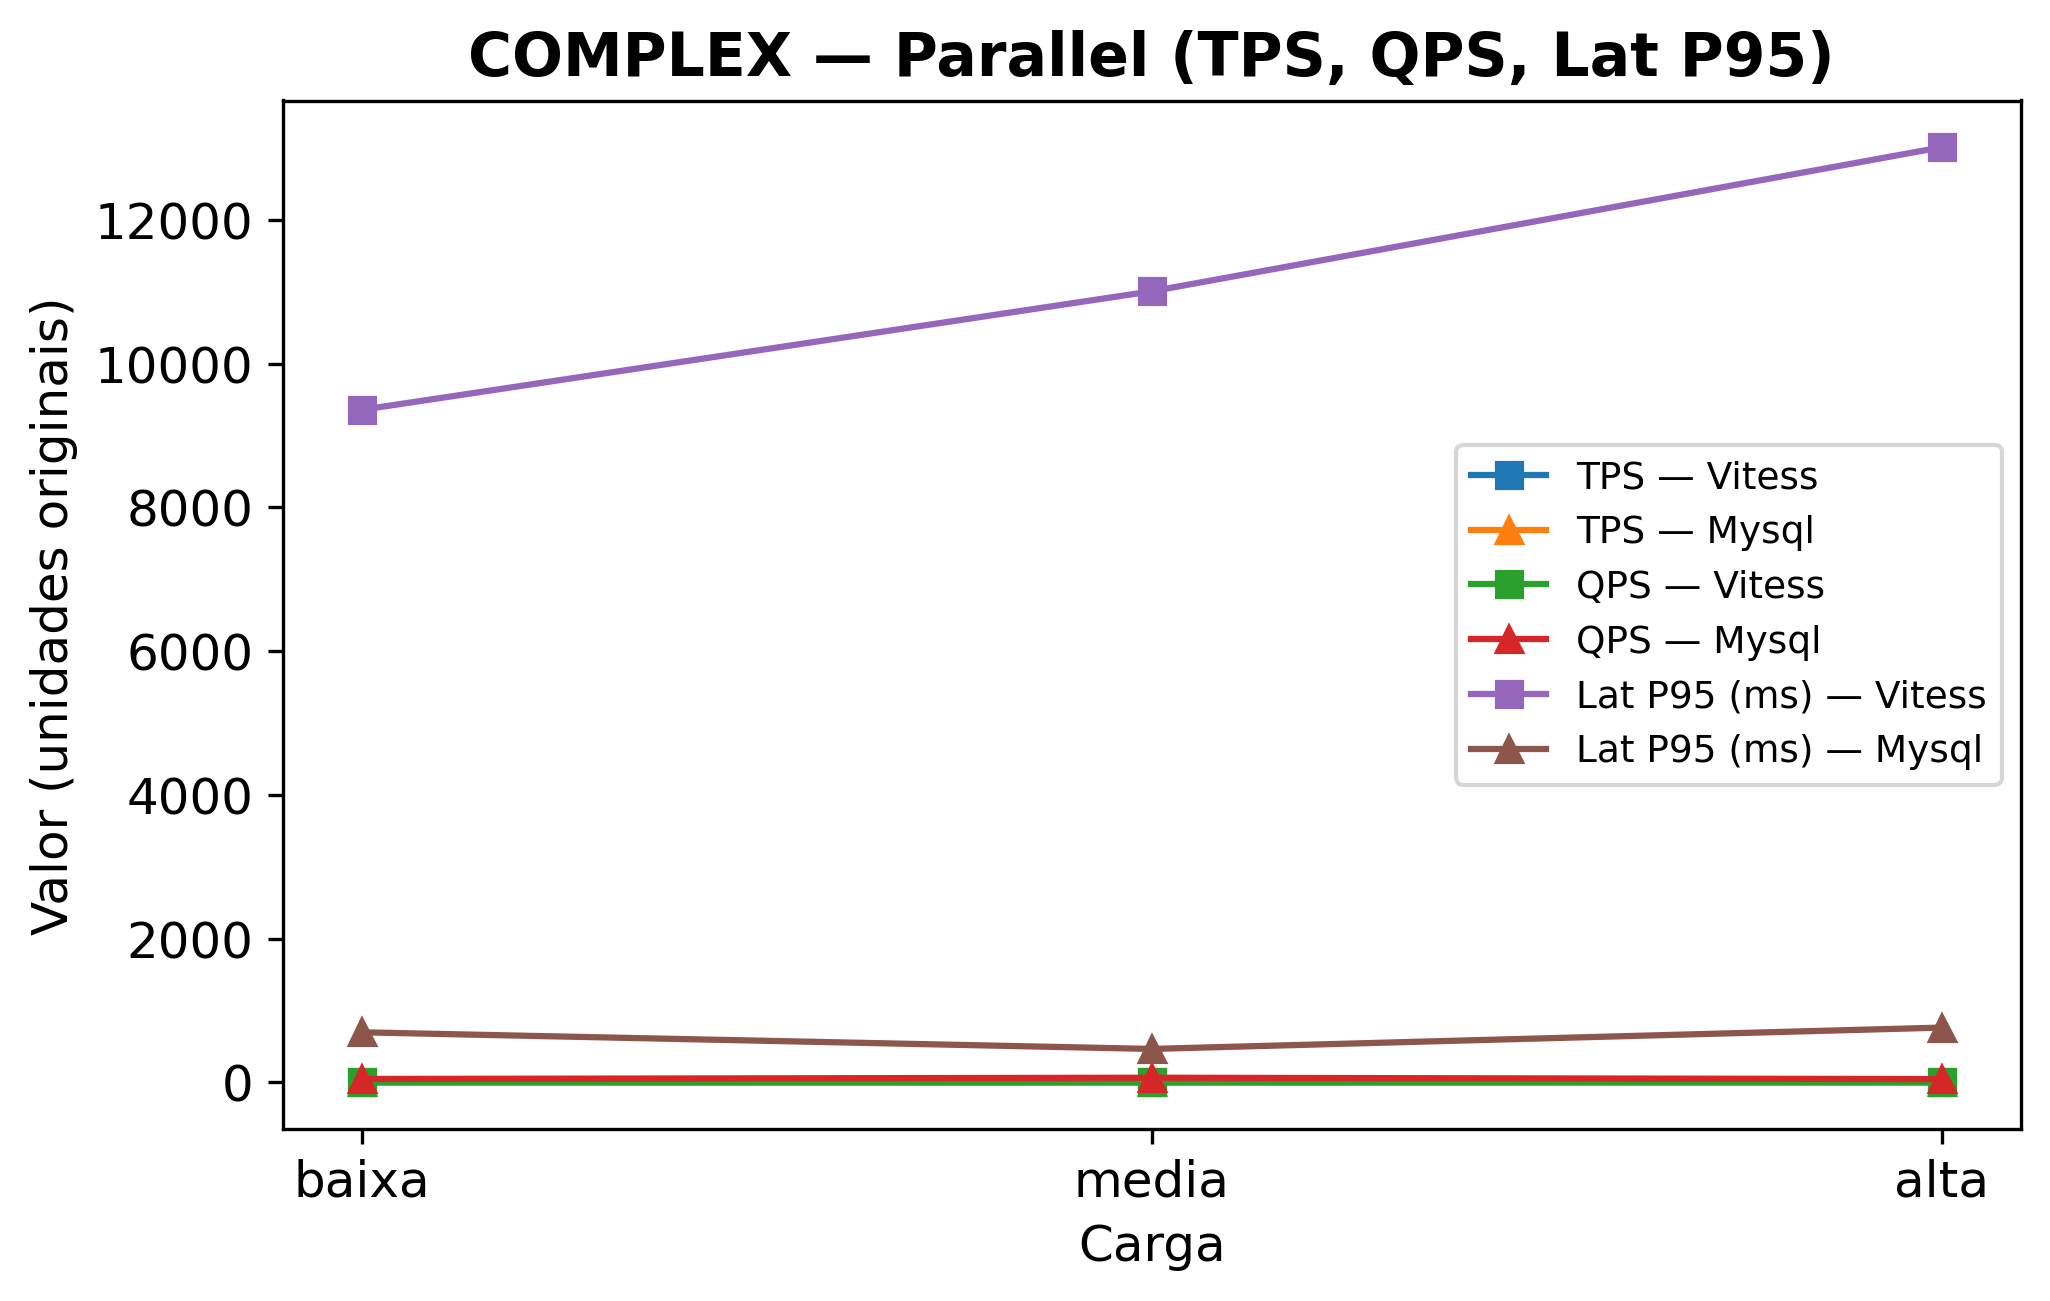
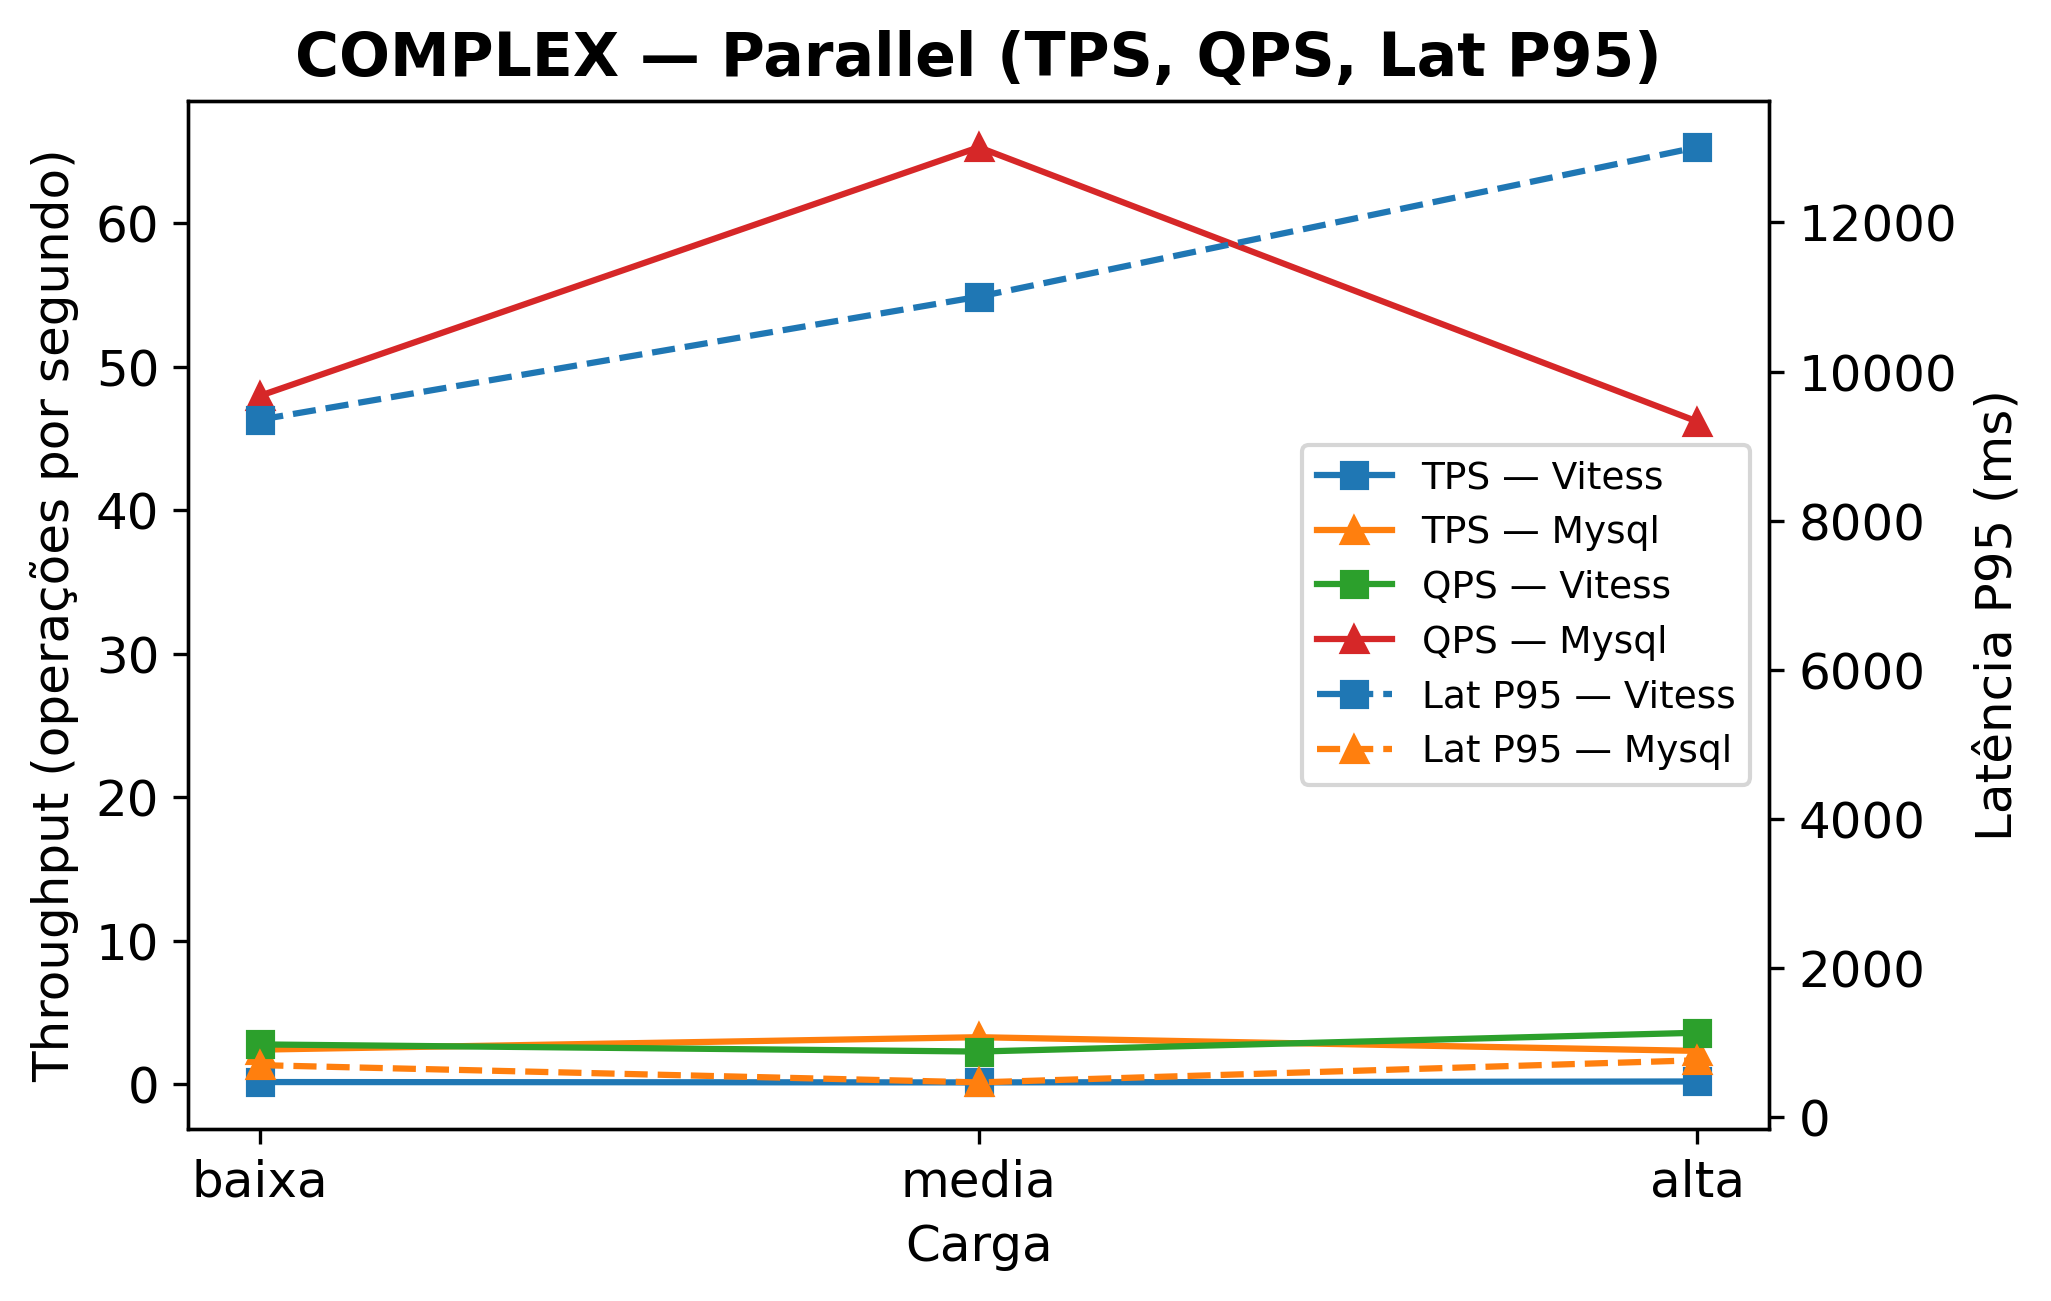
Adiciona gráficos de desempenho com segundo eixo y

diff --git a/graphics/src/plots.py b/graphics/src/plots.py
@@ -25,29 +25,56 @@ def plot_multimetric_by_scenario(
     # Marcadores: Vitess quadrado, MySQL triângulo
     marker_by_db = {"vitess": "s", "mysql": "^"}
 
-    metrics = [
+    fig, ax_left = plt.subplots(figsize=(7, 4.5))
+    ax_right = ax_left.twinx()
+
+    # -------------------------
+    # EIXO ESQUERDO — TPS / QPS
+    # -------------------------
+    for col, metric_label in [
         (tps_col, "TPS"),
         (qps_col, "QPS"),
-        (lat_col, "Lat P95 (ms)"),
-    ]
-
-    fig, ax = plt.subplots(figsize=(7, 4.5))
-
-    # Uma "cor" por métrica; dentro de cada métrica, 2 séries (mysql/vitess) com marcadores diferentes
-    for col, metric_label in metrics:
+    ]:
         for db in ["vitess", "mysql"]:
             d = data[data[db_col] == db].sort_values(x_col)
-            ax.plot(
+            ax_left.plot(
                 d[x_col].astype(str),
                 d[col].values,
                 marker=marker_by_db.get(db, "o"),
                 label=f"{metric_label} — {db.capitalize()}",
             )
 
-    ax.set_xlabel("Carga")
-    ax.set_ylabel("Valor (unidades originais)")
-    ax.set_title(title)
-    ax.legend(ncols=1, fontsize=9)
+    ax_left.set_ylabel("Throughput (operações por segundo)")
+    ax_left.set_xlabel("Carga")
+
+    # -------------------------
+    # EIXO DIREITO — LATÊNCIA
+    # -------------------------
+    for db in ["vitess", "mysql"]:
+        d = data[data[db_col] == db].sort_values(x_col)
+        ax_right.plot(
+            d[x_col].astype(str),
+            d[lat_col].values,
+            linestyle="--",
+            marker=marker_by_db.get(db, "o"),
+            label=f"Lat P95 — {db.capitalize()}",
+        )
+
+    ax_right.set_ylabel("Latência P95 (ms)")
+
+    # -------------------------
+    # TÍTULO + LEGENDA
+    # -------------------------
+    ax_left.set_title(title)
+
+    lines_l, labels_l = ax_left.get_legend_handles_labels()
+    lines_r, labels_r = ax_right.get_legend_handles_labels()
+    ax_left.legend(
+        lines_l + lines_r,
+        labels_l + labels_r,
+        fontsize=9,
+        ncols=1,
+    )
 
     fig.tight_layout()
     outpath.parent.mkdir(parents=True, exist_ok=True)
